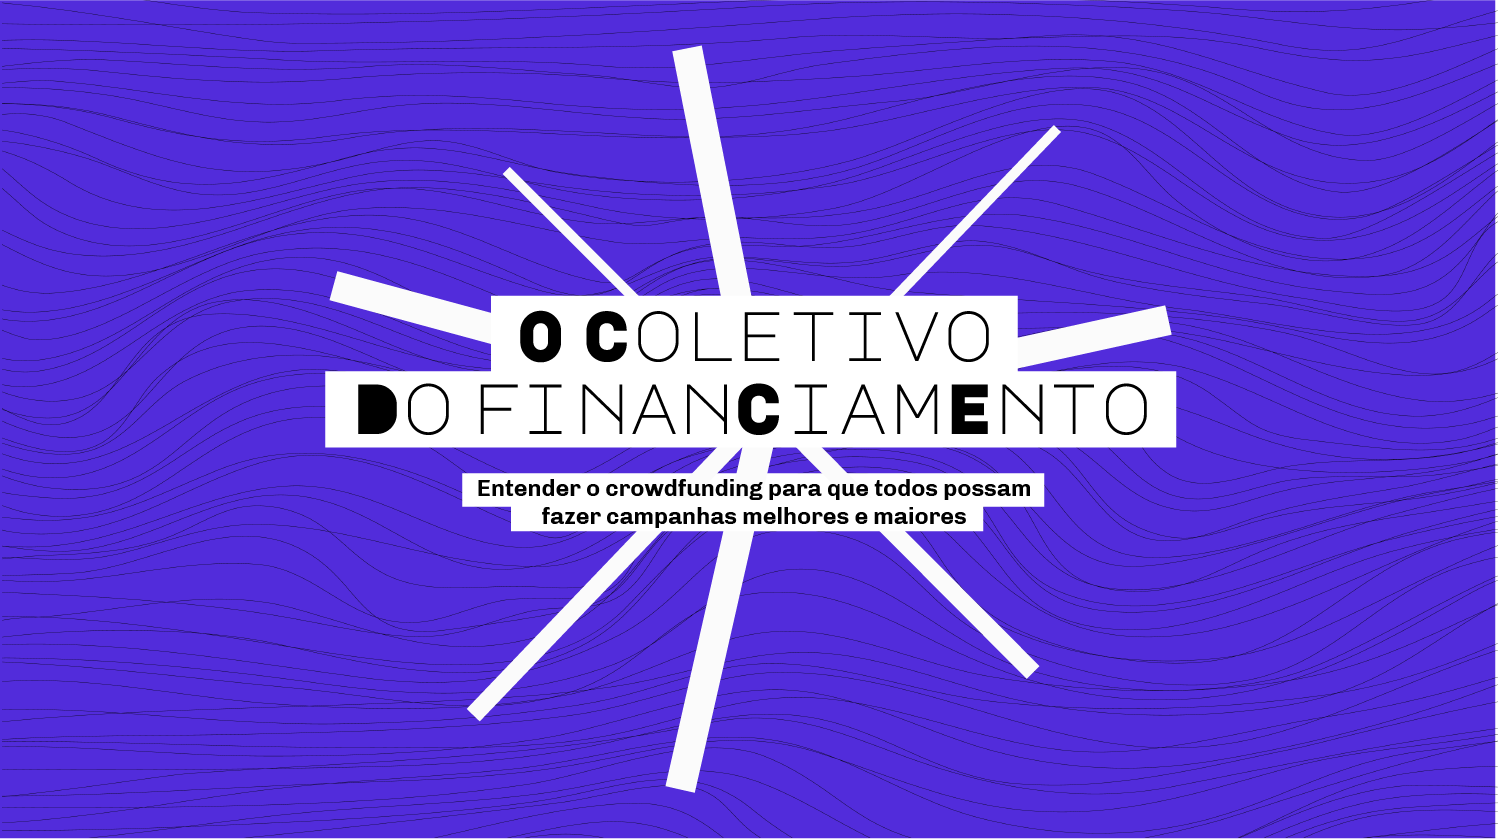
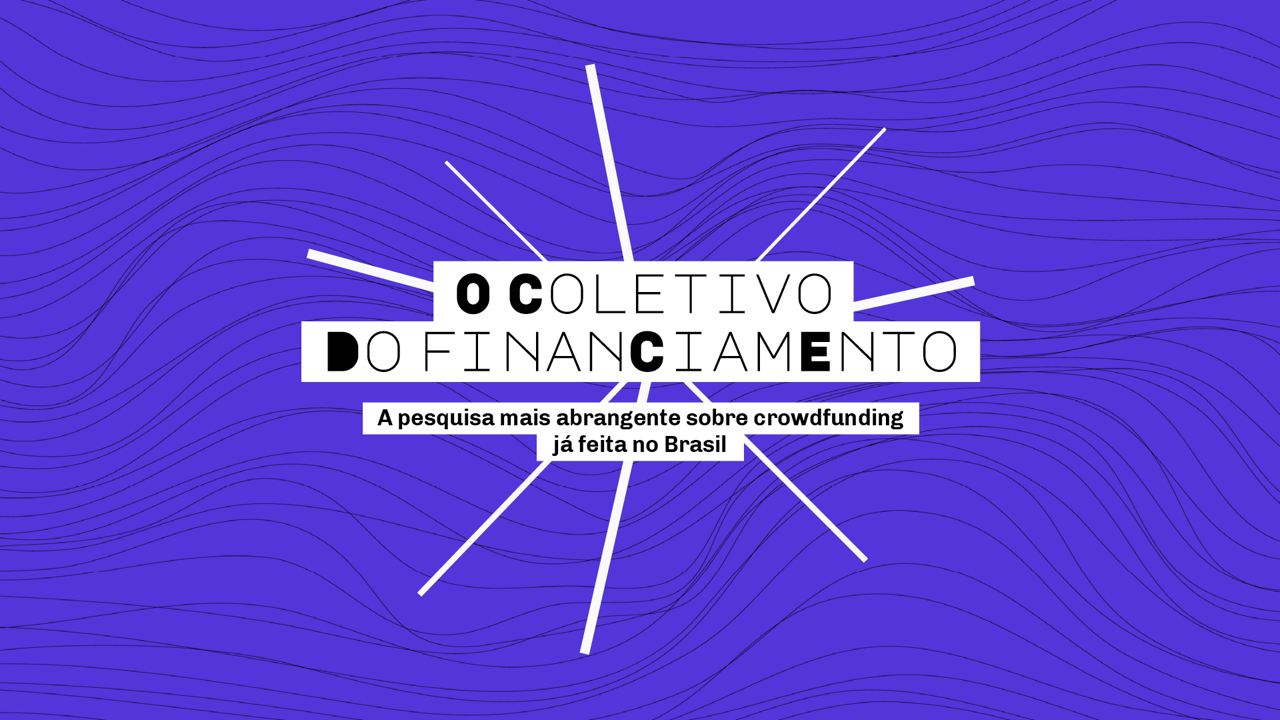
finishi im

Changed region(s): [[0.0, 0.0, 1.0, 1.0]]

diff --git a/index.html b/index.html
@@ -4,9 +4,9 @@
     <meta charset="UTF-8">
     <meta http-equiv="X-UA-Compatible" content="IE=edge">
     <meta name="viewport" content="width=device-width, initial-scale=1, minimum-scale=1">
-    <meta name="description" content="Apoie a realização da maior pesquisa sobre financiamento coletivo da história do Brasil!">
+    <meta name="description" content="Saíram os resultados da pesquisa O Coletivo do Financiamento, o trabalho mais abrangente já feito sobre crowdfunding no Brasil!">
     <meta name="keywords" content="financiamento coletivo, bando, crowdfunding, pesquisa, campanha">
-    <meta name="webRoot" content="http://127.0.0.1:8000">
+    <meta name="webRoot" content="/">
 
     <!-- CSRF Token -->
     <meta name="csrf-token" content="VtNY64TNqidQ7a54mK80H2o2HlqbiWuIMUvb6RqA">
@@ -14,13 +14,13 @@
     <meta property="og:url" content="https://ocoletivodofinanciamento.com.br">
     <meta property="og:type" content="website">
     <meta property="og:title" content="O Coletivo do Financiamento">
-    <meta property="og:description" content="Apoie a realização da maior pesquisa sobre financiamento coletivo da história do Brasil!">
-    <meta property="og:image" content="http://127.0.0.1:8000/images/header.png">
+    <meta property="og:description" content="Saíram os resultados da pesquisa O Coletivo do Financiamento, o trabalho mais abrangente já feito sobre crowdfunding no Brasil!">
+    <meta property="og:image" content="./images/header.png">
     
 
     <title>O Coletivo do Financiamento</title>
     
-    <link rel="shortcut icon" href="http://127.0.0.1:8000/favicon.png">
+    <link rel="shortcut icon" href="/favicon.png">
     <link href="index_arquivos/css.css" rel="stylesheet" type="text/css">
     <link href="index_arquivos/css_002.css" rel="stylesheet" type="text/css">
     <link href="index_arquivos/css_004.css" rel="stylesheet">
@@ -56,16 +56,6 @@
         </script> -->
     
     <script src="index_arquivos/api.js"></script>
-    <script type="text/javascript">
-        window.App = {
-            server_vars: {
-                endpoint: 'http://127.0.0.1:8000',
-                csrf_token: 'VtNY64TNqidQ7a54mK80H2o2HlqbiWuIMUvb6RqA',
-                iugu_account_id: '',
-                iugu_test_mode: true,
-            },
-        };
-    </script>
 <link rel="stylesheet" href="index_arquivos/css_003.css" media="all"><script type="text/javascript" src="index_arquivos/sdk"></script><style type="text/css" data-fbcssmodules="css:fb.css.basecss:fb.css.dialog css:fb.css.iframewidget">.fb_hidden{position:absolute;top:-10000px;z-index:10001}.fb_reposition{overflow:hidden;position:relative}.fb_invisible{display:none}.fb_reset{background:none;border:0;border-spacing:0;color:#000;cursor:auto;direction:ltr;font-family:"lucida grande", tahoma, verdana, arial, sans-serif;font-size:11px;font-style:normal;font-variant:normal;font-weight:normal;letter-spacing:normal;line-height:1;margin:0;overflow:visible;padding:0;text-align:left;text-decoration:none;text-indent:0;text-shadow:none;text-transform:none;visibility:visible;white-space:normal;word-spacing:normal}.fb_reset>div{overflow:hidden}@keyframes fb_transform{from{opacity:0;transform:scale(.95)}to{opacity:1;transform:scale(1)}}.fb_animate{animation:fb_transform .3s forwards}
 .fb_dialog{background:rgba(82, 82, 82, .7);position:absolute;top:-10000px;z-index:10001}.fb_dialog_advanced{border-radius:8px;padding:10px}.fb_dialog_content{background:#fff;color:#373737}.fb_dialog_close_icon{background:url(https://static.xx.fbcdn.net/rsrc.php/v3/yq/r/IE9JII6Z1Ys.png) no-repeat scroll 0 0 transparent;cursor:pointer;display:block;height:15px;position:absolute;right:18px;top:17px;width:15px}.fb_dialog_mobile .fb_dialog_close_icon{left:5px;right:auto;top:5px}.fb_dialog_padding{background-color:transparent;position:absolute;width:1px;z-index:-1}.fb_dialog_close_icon:hover{background:url(https://static.xx.fbcdn.net/rsrc.php/v3/yq/r/IE9JII6Z1Ys.png) no-repeat scroll 0 -15px transparent}.fb_dialog_close_icon:active{background:url(https://static.xx.fbcdn.net/rsrc.php/v3/yq/r/IE9JII6Z1Ys.png) no-repeat scroll 0 -30px transparent}.fb_dialog_iframe{line-height:0}.fb_dialog_content .dialog_title{background:#6d84b4;border:1px solid #365899;color:#fff;font-size:14px;font-weight:bold;margin:0}.fb_dialog_content .dialog_title>span{background:url(https://static.xx.fbcdn.net/rsrc.php/v3/yd/r/Cou7n-nqK52.gif) no-repeat 5px 50%;float:left;padding:5px 0 7px 26px}body.fb_hidden{height:100%;left:0;margin:0;overflow:visible;position:absolute;top:-10000px;transform:none;width:100%}.fb_dialog.fb_dialog_mobile.loading{background:url(https://static.xx.fbcdn.net/rsrc.php/v3/ya/r/3rhSv5V8j3o.gif) white no-repeat 50% 50%;min-height:100%;min-width:100%;overflow:hidden;position:absolute;top:0;z-index:10001}.fb_dialog.fb_dialog_mobile.loading.centered{background:none;height:auto;min-height:initial;min-width:initial;width:auto}.fb_dialog.fb_dialog_mobile.loading.centered #fb_dialog_loader_spinner{width:100%}.fb_dialog.fb_dialog_mobile.loading.centered .fb_dialog_content{background:none}.loading.centered #fb_dialog_loader_close{clear:both;color:#fff;display:block;font-size:18px;padding-top:20px}#fb-root #fb_dialog_ipad_overlay{background:rgba(0, 0, 0, .4);bottom:0;left:0;min-height:100%;position:absolute;right:0;top:0;width:100%;z-index:10000}#fb-root #fb_dialog_ipad_overlay.hidden{display:none}.fb_dialog.fb_dialog_mobile.loading iframe{visibility:hidden}.fb_dialog_mobile .fb_dialog_iframe{position:sticky;top:0}.fb_dialog_content .dialog_header{background:linear-gradient(from(#738aba), to(#2c4987));border-bottom:1px solid;border-color:#043b87;box-shadow:white 0 1px 1px -1px inset;color:#fff;font:bold 14px Helvetica, sans-serif;text-overflow:ellipsis;text-shadow:rgba(0, 30, 84, .296875) 0 -1px 0;vertical-align:middle;white-space:nowrap}.fb_dialog_content .dialog_header table{height:43px;width:100%}.fb_dialog_content .dialog_header td.header_left{font-size:12px;padding-left:5px;vertical-align:middle;width:60px}.fb_dialog_content .dialog_header td.header_right{font-size:12px;padding-right:5px;vertical-align:middle;width:60px}.fb_dialog_content .touchable_button{background:linear-gradient(from(#4267B2), to(#2a4887));background-clip:padding-box;border:1px solid #29487d;border-radius:3px;display:inline-block;line-height:18px;margin-top:3px;max-width:85px;padding:4px 12px;position:relative}.fb_dialog_content .dialog_header .touchable_button input{background:none;border:none;color:#fff;font:bold 12px Helvetica, sans-serif;margin:2px -12px;padding:2px 6px 3px 6px;text-shadow:rgba(0, 30, 84, .296875) 0 -1px 0}.fb_dialog_content .dialog_header .header_center{color:#fff;font-size:16px;font-weight:bold;line-height:18px;text-align:center;vertical-align:middle}.fb_dialog_content .dialog_content{background:url(https://static.xx.fbcdn.net/rsrc.php/v3/y9/r/jKEcVPZFk-2.gif) no-repeat 50% 50%;border:1px solid #4a4a4a;border-bottom:0;border-top:0;height:150px}.fb_dialog_content .dialog_footer{background:#f5f6f7;border:1px solid #4a4a4a;border-top-color:#ccc;height:40px}#fb_dialog_loader_close{float:left}.fb_dialog.fb_dialog_mobile .fb_dialog_close_icon{visibility:hidden}#fb_dialog_loader_spinner{animation:rotateSpinner 1.2s linear infinite;background-color:transparent;background-image:url(https://static.xx.fbcdn.net/rsrc.php/v3/yD/r/t-wz8gw1xG1.png);background-position:50% 50%;background-repeat:no-repeat;height:24px;width:24px}@keyframes rotateSpinner{0%{transform:rotate(0deg)}100%{transform:rotate(360deg)}}
 .fb_iframe_widget{display:inline-block;position:relative}.fb_iframe_widget span{display:inline-block;position:relative;text-align:justify}.fb_iframe_widget iframe{position:absolute}.fb_iframe_widget_fluid_desktop,.fb_iframe_widget_fluid_desktop span,.fb_iframe_widget_fluid_desktop iframe{max-width:100%}.fb_iframe_widget_fluid_desktop iframe{min-width:220px;position:relative}.fb_iframe_widget_lift{z-index:1}.fb_iframe_widget_fluid{display:inline}.fb_iframe_widget_fluid span{width:100%}</style></head>
@@ -79,7 +69,7 @@
             <button type="button" class="navbar-toggle" data-toggle="collapse" data-target=".navbar-main-collapse">
                 <i class="fa fa-bars"></i>
             </button>
-            <a class="navbar-brand page-scroll" href="http://127.0.0.1:8000/t">
+            <a class="navbar-brand page-scroll" href="/t">
                 <style>     
                                     @media  screen and (max-width: 400px) {
                                             .logo-header {
@@ -144,26 +134,12 @@
                         
                         <div class="row"> 
                             <p class="text-left" style="margin-bottom:40px">
-                               Em tempos de crise e cortes nos meios 
-tradicionais de financiamento, 
-                               muitas pessoas recorrem ao financiamento 
-coletivo como alternativa. 
-                               Mas nem tudo no crowdfunding é óbvio. 
-Entender profundamente os detalhes do modelo permite que todos possam 
-                               fazer campanhas melhores e maiores. Com 
-dados, informações e instruções adequadas, podemos aumentar as 
-                               chances de sucesso e manter vivos ou 
-tirar do papel milhares de projetos. 
-                               <strong>Para democratizar a ferramenta, produzimos a maior pesquisa já feita sobre o financiamento coletivo no Brasil: 
-                               O Coletivo do Financiamento.</strong>
-                               <br><br>
-                               Você pode mergulhar nos resultados 
-baixando o relatório completo, que analisou os dados de todas as 
-campanhas
-                               que passaram pelas plataformas da 
-Benfeitoria e do Catarse entre 2011 e 2019,
-                               além de um longo questionário respondido 
-por milhares de pessoas.
+                               Há 10 anos as plataformas Benfeitoria e Catarse entravam no ar e inauguravam oficialmente o financiamento coletivo no Brasil. Para celebrar a década do crowdfunding no país, apresentamos com muito orgulho os resultados da pesquisa mais abrangente sobre o setor já realizada: O Coletivo do Financiamento.
+                                <br><br>
+                               Em tempos de crise e cortes nos meios tradicionais de financiamento, muitas pessoas recorrem ao financiamento coletivo como alternativa. Mas nem tudo no crowdfunding é óbvio. Entender profundamente os detalhes do modelo permite que todos possam fazer campanhas melhores e maiores. Com dados, informações e instruções adequadas, podemos aumentar as chances de sucesso e manter vivos ou tirar do papel milhares de projetos.
+                                <br><br>
+                               Você pode mergulhar nos resultados baixando o relatório completo, que analisou os dados de mais de 15 mil campanhas que passaram pelas plataformas da Benfeitoria e do Catarse entre 2011 e 2020, além de um longo questionário respondido por milhares de pessoas.
+
                             </p>
                         </div>
                         
@@ -201,6 +177,34 @@ por milhares de pessoas.
                 </div>
             </div>
         </section>
+
+
+        <section id="sharing" class=" content-section text-center">
+            <div class="container">
+                <div class="row">
+                 <div class="col-lg-8 col-lg-offset-2">
+                     <h2 class="txt-white" style="margin-bottom: 0.5em;">COMPARTILHE</h2>
+                     <p class="text-left txt-white">Precisamos espalhar a pesquisa por aí para que esse trabalho se torne verdadeiramente coletivo!</p>
+                     <div class="col-xs-6 col-sm-4 lower-margin-bot text-center">
+                         <a target="_blank" href="http://twitter.com/intent/tweet/?text=Sa%C3%ADram%20os%20resultados%20da%20pesquisa%20O%20Coletivo%20do%20Financiamento,%20o%20trabalho%20mais%20abrangente%20j%C3%A1%20feito%20sobre%20crowdfunding%20no%20Brasil!%20https://ocoletivodofinanciamento.com.br"><img src="index_arquivos/twitter.png" alt="Compartilhar no Twitter"></a>
+                     </div>
+                     <div class="col-xs-6 col-sm-4 lower-margin-bot text-center">
+                         <div id="fb-root" class=" fb_reset"><div style="position: absolute; top: -10000px; width: 0px; height: 0px;"><div></div></div></div>
+                         <a href="https://www.facebook.com/sharer/sharer.php?u=https://ocoletivodofinanciamento.com.br" target="_blank"><!--class="fb_share"-->
+                             <img src="index_arquivos/facebook.png" alt="Compartilhar no Facebook">
+                         </a>
+                     </div>
+                     <div class="col-xs-6 col-sm-4 lower-margin-bot text-center">
+                         <a href="https://api.whatsapp.com/send?text=Sa%C3%ADram%20os%20resultados%20da%20pesquisa%20O%20Coletivo%20do%20Financiamento,%20o%20trabalho%20mais%20abrangente%20j%C3%A1%20feito%20sobre%20crowdfunding%20no%20Brasil!%20https://ocoletivodofinanciamento.com.br" data-action="share/whatsapp/share"><img src="index_arquivos/whatsapp.png" alt="Compartilhar no Whatsapp"></a>
+                     </div>
+                     <!-- <div class="col-xs-6 col-sm-3 lower-margin-bot text-center">
+                         <a href="#"><img src="/images/youtube.png" alt=""></a>
+                     </div> -->
+                  </div>
+                </div>
+            </div>
+        </section>
+
 
         <section class="content-section center-left">
             <div class="container">
@@ -309,32 +313,6 @@ realizadores.
         </section>
         
         
-
-        <section id="sharing" class=" content-section text-center">
-            <div class="container">
-                <div class="row">
-                 <div class="col-lg-8 col-lg-offset-2">
-                     <h2 class="txt-white" style="margin-bottom: 0.5em;">COMPARTILHE</h2>
-                     <p class="text-left txt-white">Precisamos espalhar a pesquisa por aí para que esse trabalho se torne verdadeiramente coletivo!</p>
-                     <div class="col-xs-6 col-sm-4 lower-margin-bot text-center">
-                         <a target="_blank" href="http://twitter.com/intent/tweet/?text=Apoie%20a%20realiza%C3%A7%C3%A3o%20da%20maior%20pesquisa%20sobre%20financiamento%20coletivo%20da%20hist%C3%B3ria%20do%20Brasil!%20https%3A//www.ocoletivodofinanciamento.com.br"><img src="index_arquivos/twitter.png" alt="Compartilhar no Twitter"></a>
-                     </div>
-                     <div class="col-xs-6 col-sm-4 lower-margin-bot text-center">
-                         <div id="fb-root" class=" fb_reset"><div style="position: absolute; top: -10000px; width: 0px; height: 0px;"><div></div></div></div>
-                         <a href="https://www.facebook.com/sharer/sharer.php?u=https://ocoletivodofinanciamento.com.br" target="_blank"><!--class="fb_share"-->
-                             <img src="index_arquivos/facebook.png" alt="Compartilhar no Facebook">
-                         </a>
-                     </div>
-                     <div class="col-xs-6 col-sm-4 lower-margin-bot text-center">
-                         <a href="https://api.whatsapp.com/send?text=Apoie%20a%20realiza%C3%A7%C3%A3o%20da%20maior%20pesquisa%20sobre%20financiamento%20coletivo%20da%20hist%C3%B3ria%20do%20Brasil!%20https://ocoletivodofinanciamento.com.br" data-action="share/whatsapp/share"><img src="index_arquivos/whatsapp.png" alt="Compartilhar no Whatsapp"></a>
-                     </div>
-                     <!-- <div class="col-xs-6 col-sm-3 lower-margin-bot text-center">
-                         <a href="#"><img src="http://127.0.0.1:8000/images/youtube.png" alt=""></a>
-                     </div> -->
-                  </div>
-                </div>
-            </div>
-        </section>
 
         
 
